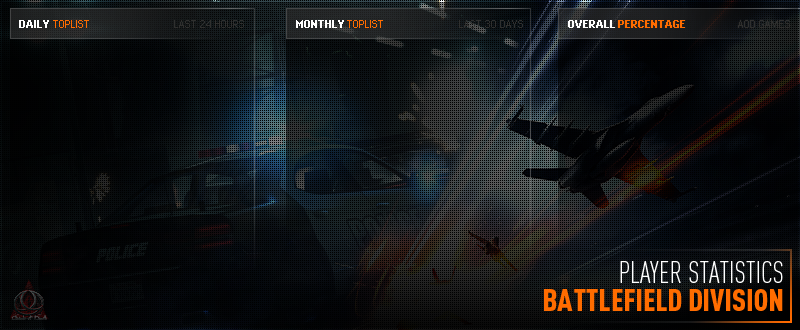
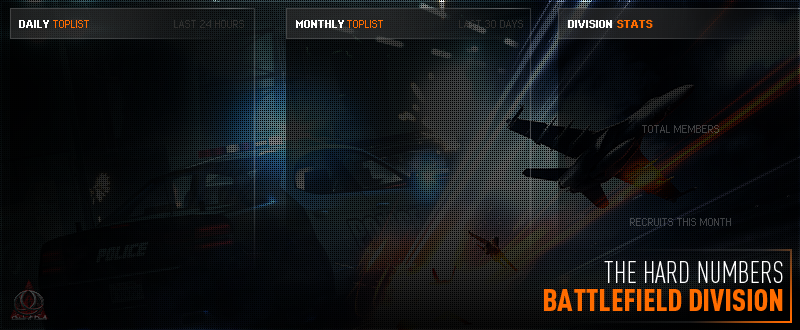
update division view, toplist image

diff --git a/views/division/statistics.php b/views/division/statistics.php
@@ -7,15 +7,15 @@
 
 <div class='row'>
 
-	<div class='col-md-6'>
+	<div class='col-md-4'>
 		<div class='panel panel-primary toplist'>
 
-			<div class='panel-heading'>Daily Most Active Players<span class='pull-right'>Games</span></div>
+			<div class='panel-heading'><i class="fa fa-bolt"></i> Daily Most Active Players<span class='pull-right'>Games</span></div>
 			<table class='table table-striped table-hover'>
 				<table class='table table-striped table-hover'>
 					<?php $i = 1; ?>
 					<?php foreach($daily as $player) : ?>
-						<tr data-id='<?php echo $player->member_id ?>'><td class='text-center text-muted'><small><?php echo $i; $i++ ?></small></td><td><?php echo $player->forum_name;?></td><td class='text-center text-muted'><?php echo ordSuffix($player->plt); ?> Platoon</td><td><strong><?php echo $player->aod_games ?></strong></td></tr>
+						<tr data-id='<?php echo $player->member_id ?>'><td class='text-center text-muted'><small><?php echo $i; $i++ ?></small></td><td><strong><?php echo $player->rank ?> <?php echo $player->forum_name;?></strong></td><td class='text-center text-muted'><?php echo ordSuffix($player->plt); ?> Platoon</td><td><strong><?php echo $player->aod_games ?></strong></td></tr>
 					<?php endforeach; ?>
 
 				</table>
@@ -23,18 +23,32 @@
 		</div>
 	</div>
 
-	<div class='col-md-6'>
+	<div class='col-md-4'>
 		<div class='panel panel-primary toplist'>
 
-			<div class='panel-heading'>Monthly Most Active Players<span class='pull-right'>Games</span></div>
+			<div class='panel-heading'><i class="fa fa-calendar"></i> Monthly Most Active Players<span class='pull-right'>Games</span></div>
 			<table class='table table-striped table-hover'>
 				<?php $i = 1; ?>
 				<?php foreach($monthly as $player) : ?>
-					<tr data-id='<?php echo $player->member_id ?>'><td class='text-center text-muted'><small><?php echo $i; $i++ ?></small></td><td><?php echo $player->forum_name;?></td><td class='text-center text-muted'><?php echo ordSuffix($player->plt); ?> Platoon</td><td><strong><?php echo $player->aod_games ?></strong></td></tr>
+					<tr data-id='<?php echo $player->member_id ?>'><td class='text-center text-muted'><small><?php echo $i; $i++ ?></small></td><td><strong><?php echo $player->rank ?> <?php echo $player->forum_name;?></strong></td><td class='text-center text-muted'><?php echo ordSuffix($player->plt); ?> Platoon</td><td><strong><?php echo $player->aod_games ?></strong></td></tr>
 				<?php endforeach; ?>
 
 			</table>
 		</div>
+	</div>
+
+	<div class='col-md-4'>
+	<div class='panel panel-info toplist'>
+			<div class='panel-heading'>Total Membership</div>
+			<div class="panel-body count-detail-big follow-tool striped-bg"><span class="count-animated"><?php echo $personnelData->totalCount ?></span>
+			</div>
+		</div>
+
+		<div class='panel panel-info toplist'>
+			<div class='panel-heading'>Recruits This Month</div>
+			<div class="panel-body count-detail-big follow-tool striped-bg"><span class="count-animated"><?php echo $personnelData->recruitsThisMonth ?></span>
+			</div>
+		</div>		
 	</div>
 </div>
 

diff --git a/controllers/GraphicsController.php b/controllers/GraphicsController.php
@@ -36,8 +36,11 @@ class GraphicsController {
 		$num_col_2   = 300;
 		$name_col_2  = 320;
 
-		$total_percent_x = 590;
-		$total_percent_y = 160;
+		$total_count_x = 639;
+		$total_count_y = 110;
+
+		$recruits_x = 639;
+		$recruits_y = 205;
 
 		/**
 		 * get data
@@ -61,7 +64,7 @@ class GraphicsController {
 		     */
 
     		// date
-		    imagettftext($im, 6, 0, 715, 240, $darkGrey, $tinyfont, strtoupper($dateText));    
+		    // imagettftext($im, 6, 0, 715, 240, $darkGrey, $tinyfont, strtoupper($dateText));    
 
     		// daily stats
 		    $y = 65;
@@ -109,8 +112,15 @@ class GraphicsController {
 
     		// total aod games stat
 
-		    $total = Activity::toplistMonthlyAODTotal();
-		    imagettftext($im, 48, 0, $total_percent_x, $total_percent_y, $white, $bigfont, $total . "%");
+		    $personnel = new stdClass();
+		    $personnel->recruitsThisMonth = Division::recruitsThisMonth($division)->count;
+		    $personnel->totalCount = Division::totalCount($division)->count;
+
+
+		    $personnel->recruitsThisMonth = sprintf('%03d', $personnel->recruitsThisMonth);
+
+		    imagettftext($im, 36, 0, $total_count_x, $total_count_y, $white, $bigfont, $personnel->totalCount);
+		    imagettftext($im, 36, 0, $recruits_x, $recruits_y, $white, $bigfont, $personnel->recruitsThisMonth);
 
 		}
 		catch (Exception $e) {

diff --git a/controllers/DivisionController.php b/controllers/DivisionController.php
@@ -13,7 +13,11 @@ class DivisionController {
 		$topListMonthly = Activity::topList30DaysByDivision($division->id);
 		$topListToday = Activity::topListTodayByDivision($division->id);
 
-		Flight::render('division/statistics', array('monthly' => $topListMonthly, 'daily' => $topListToday), 'statistics');
+		$personnelData = new stdClass();
+		$personnelData->recruitsThisMonth = Division::recruitsThisMonth($division->id)->count;
+		$personnelData->totalCount = Division::totalCount($division->id)->count;
+
+		Flight::render('division/statistics', array('monthly' => $topListMonthly, 'daily' => $topListToday, 'personnelData' => $personnelData), 'statistics');
 		Flight::render('division/main', array('user' => $user, 'member' => $member, 'division' => $division, 'division_leaders' => $division_leaders), 'content');
 		Flight::render('layouts/application', array('user' => $user, 'member' => $member, 'tools' => $tools, 'divisions' => $divisions, 'js' => 'division'));
 	}

diff --git a/models/Division.php b/models/Division.php
@@ -60,8 +60,13 @@ class Division extends Application {
 	}
 
 	public static function recruitsThisMonth($game_id) {
-		$sql = "SELECT count(*) as count, member.forum_name, join_date FROM member WHERE join_date >= DATE_SUB(CURRENT_DATE, INTERVAL DAYOFMONTH(CURRENT_DATE)-1 DAY) AND member.status_id = 1 AND member.game_id = {$game_id}";
-		$params = Flight::aod()->sql($sql)->one();
+		$sql = "SELECT count(*) as count, member.forum_name, join_date FROM member WHERE join_date >= DATE_SUB(CURRENT_DATE, INTERVAL DAYOFMONTH(CURRENT_DATE)-1 DAY) AND member.game_id = {$game_id}";
+		return arrayToObject(Flight::aod()->sql($sql)->one());
+	}
+
+	public static function totalCount($game_id) {
+		$sql = "SELECT count(*) as count FROM member WHERE member.game_id = {$game_id} AND status_id IN (1,2,3,999)";
+		return arrayToObject(Flight::aod()->sql($sql)->one());
 	}
 
 	public static function _create() {}
